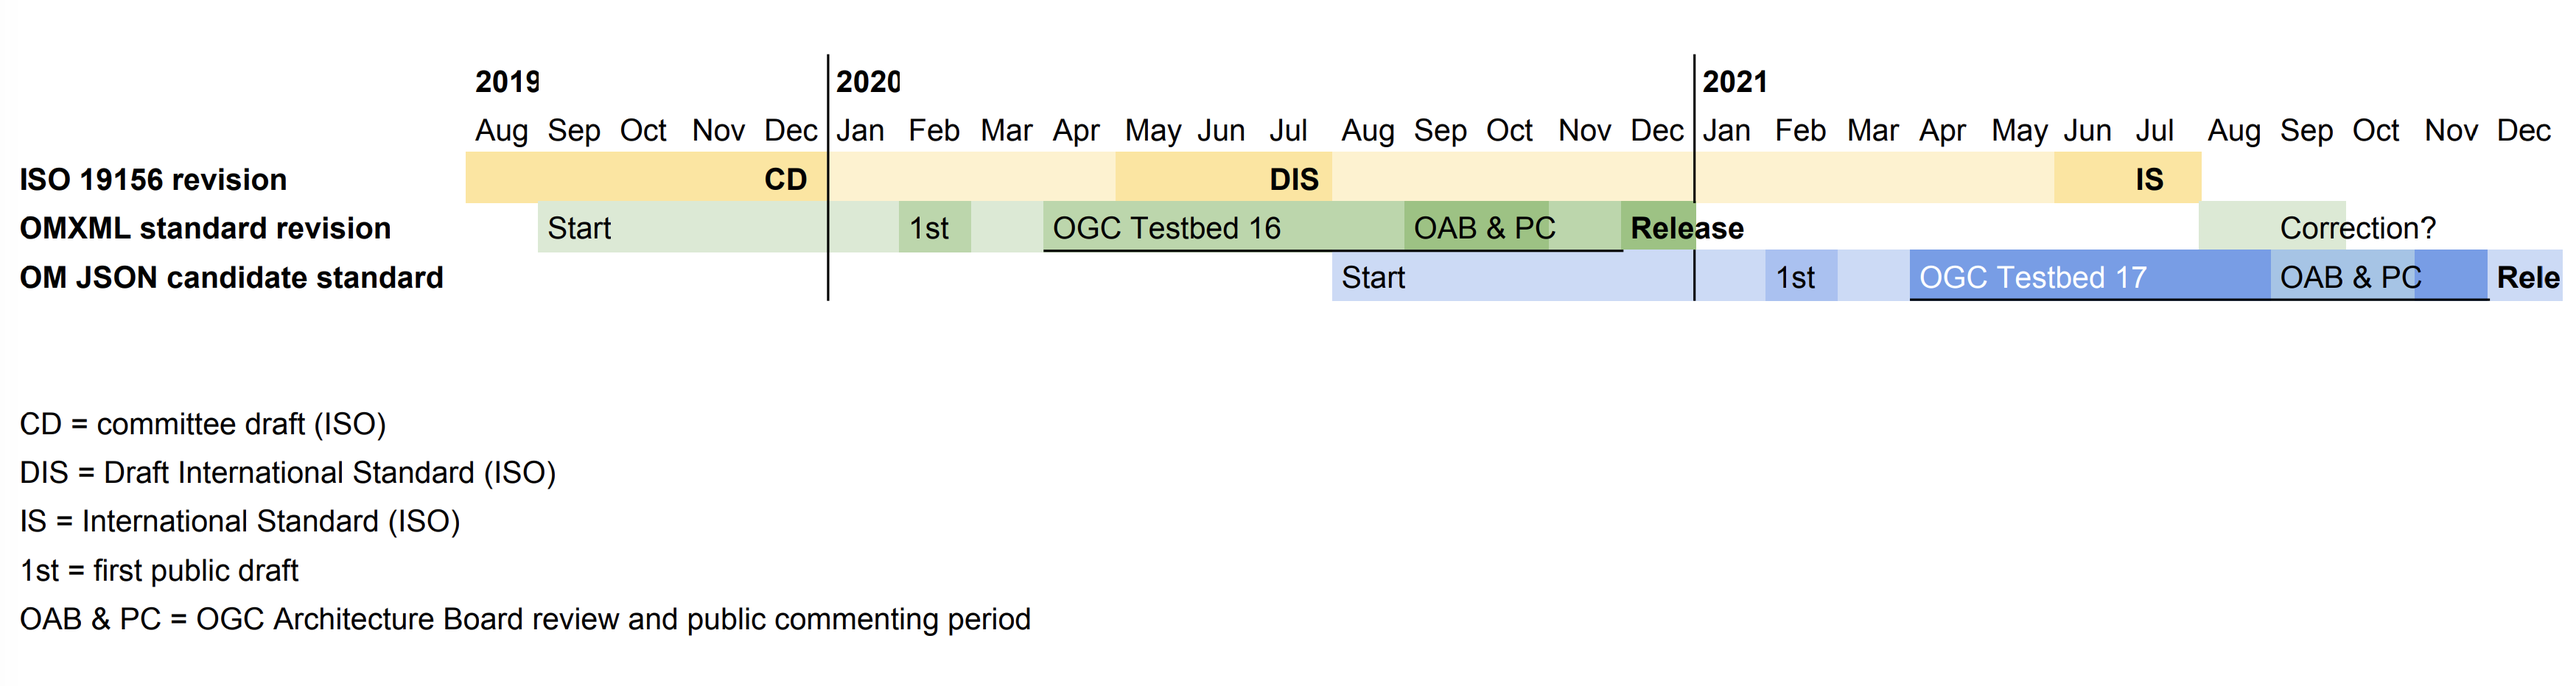
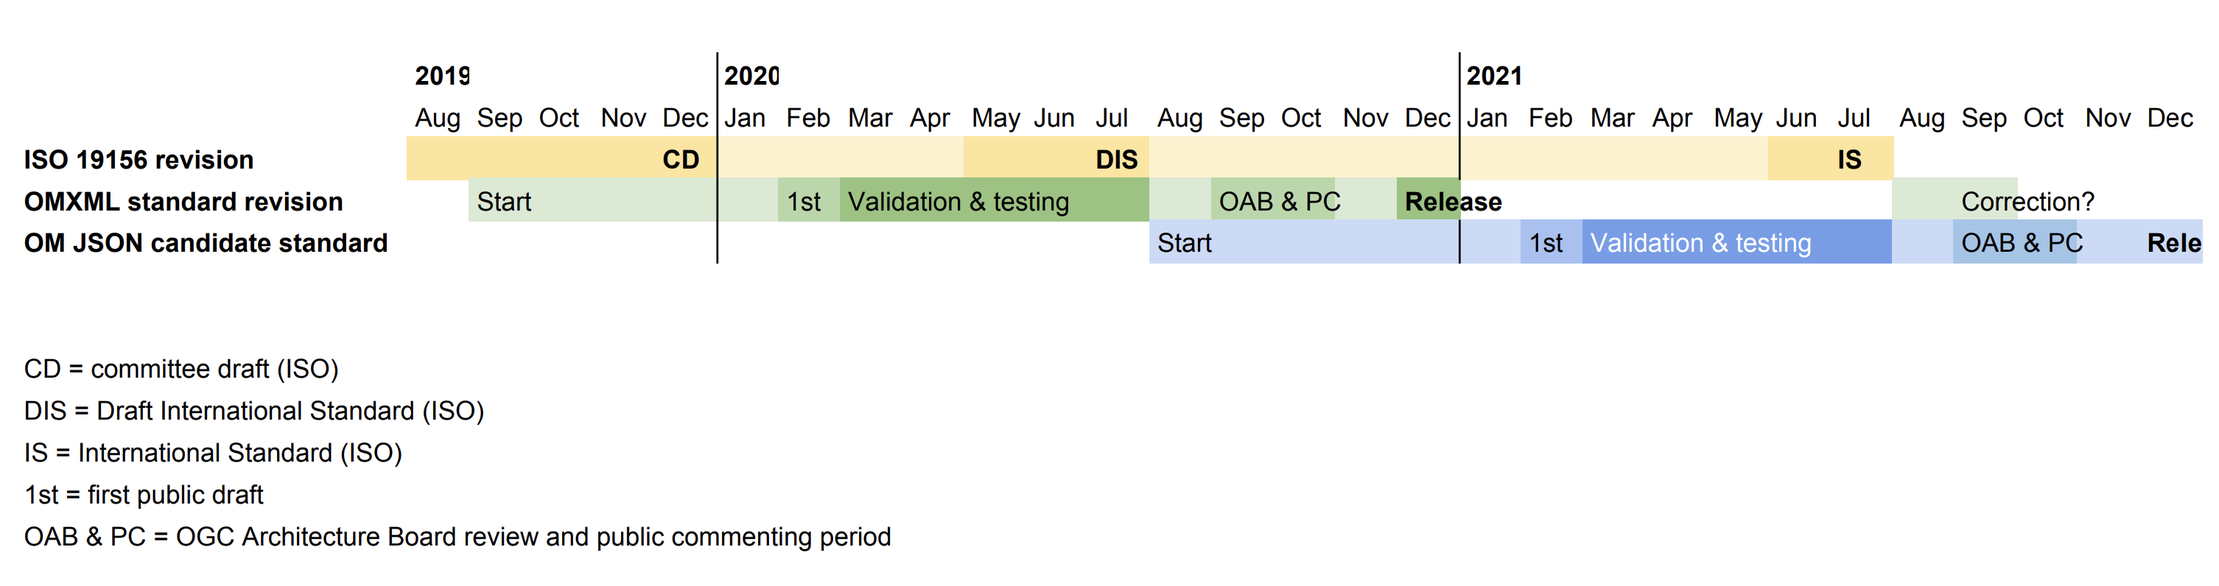
Changes agreed in the O&M SWG meeting on 14 August, apart from the references to ELFIE and SELFIE

diff --git a/docs/charter/index.html b/docs/charter/index.html
@@ -2368,7 +2368,10 @@ member of OGC;</p>
 <h2 id="_purpose_of_the_standards_working_group"><a class="anchor" href="#_purpose_of_the_standards_working_group"></a>1. Purpose of the Standards Working Group</h2>
 <div class="sectionbody">
 <div class="paragraph">
-<p>The revision work of OGC Abstract Specification Topic 20, also published as ISO Observations and measurements Standard (ISO 19156:2011, O&amp;M), has been agreed to by both OGC and ISO. The revision was approved by ISO/TC 211 in July 2018. This work will be jointly carried out within ISO/TC 211 and the O&amp;M SWG to ensure that:</p>
+<p>The revision work of OGC Abstract Specification Topic 20, also published as ISO Observations and measurements
+Standard (ISO 19156:2011, O&amp;M), has been agreed to by both OGC and ISO.
+The revision was approved by ISO/TC 211 in July 2018.
+This work will be carried out within ISO/TC 211 with support from the O&amp;M SWG to ensure that:</p>
 </div>
 <div class="ulist">
 <ul>
@@ -2384,8 +2387,8 @@ member of OGC;</p>
 </ul>
 </div>
 <div class="paragraph">
-<p>In addition to joint work with ISO, the purpose of the OGC Observations and measurements SWG is to revise existing and draft new
-OGC Standards considering the encoding of the O&amp;M conceptual models.</p>
+<p>In addition to supporting the ISO 19156 revision work of ISO/TC 211, the purpose of the OGC Observations and measurements
+SWG is to revise existing and draft new OGC Standards considering the encoding of the O&amp;M conceptual models.</p>
 </div>
 <div class="paragraph">
 <p>This Standards Working Group evaluates and resolves submitted Change Request Proposals (CRPs)
@@ -2532,14 +2535,14 @@ the existing OGC Standards normatively referring to the OGC Abstract Specificati
 apart OGC Observations and Measurements - XML Implementation (10-025r1), is out-of-scope of the O&amp;M SWG.</p>
 </div>
 <div class="paragraph">
-<p>The O&amp;M SWG will not consider Change Request Proposals submitted for the the Abstract Specification Topic 20 (10-004r3)
+<p>The O&amp;M SWG may not consider Change Request Proposals submitted for the the Abstract Specification Topic 20 (10-004r3)
 or OGC Observations and Measurements - XML Implementation (10-025r1) after the cut-off date of 30 September 2019.</p>
 </div>
 </div>
 <div class="sect2">
 <h3 id="_specific_existing_work_used_as_starting_point"><a class="anchor" href="#_specific_existing_work_used_as_starting_point"></a>3.3. Specific Existing Work Used as Starting Point</h3>
 <div class="paragraph">
-<p>The following documents are relevant to the work of the O&amp;M SWG (see References for precise reference information):</p>
+<p>The following documents are relevant to the work of the O&amp;M SWG (see <a href="#_references">References</a> for precise reference information):</p>
 </div>
 <div class="ulist">
 <ul>
@@ -2554,6 +2557,9 @@ or OGC Observations and Measurements - XML Implementation (10-025r1) after the c
 </li>
 <li>
 <p>SensorThings API Part 1: Sensing (15-078r6),</p>
+</li>
+<li>
+<p>Timeseries Profile of Observations and Measurements (15-043r3)</p>
 </li>
 <li>
 <p>W3C Semantic Sensor Network Ontology specification (SSN),</p>
@@ -2621,7 +2627,7 @@ or OGC Observations and Measurements - XML Implementation (10-025r1) after the c
 </ul>
 </div>
 <div class="paragraph">
-<p>Thus it is likely that the final version of the OGC Abstract Specification Topic 20 will be ready for publishing in Summer 2021.</p>
+<p>It is expected that the final version of the OGC Abstract Specification Topic 20 will be ready for publishing in summer 2021.</p>
 </div>
 </div>
 <div class="sect3">
@@ -2638,7 +2644,7 @@ or OGC Observations and Measurements - XML Implementation (10-025r1) after the c
 <p>February 2019: First draft version made publicly available;</p>
 </li>
 <li>
-<p>April - November 2020: Validating the feasibility of the proposed changes in an OGC Innovation Program activity;</p>
+<p>April - July 2020: Validating the feasibility of the proposed changes in an OGC Innovation Program activity;</p>
 </li>
 <li>
 <p>September 2020: OAB review and release of the revised standard for the public comment period;</p>
@@ -2672,7 +2678,7 @@ or OGC Observations and Measurements - XML Implementation (10-025r1) after the c
 <p>February 2021: First draft version made publicly available;</p>
 </li>
 <li>
-<p>April - November 2021: Validating the feasibility of the proposed encoding(s) in an OGC Innovation Program activity;</p>
+<p>April - July 2021: Validating the feasibility of the proposed encoding(s) in an OGC Innovation Program activity;</p>
 </li>
 <li>
 <p>September 2021: OAB Review and release of the standard for the public comment period;</p>
@@ -2744,7 +2750,7 @@ O&amp;M SWG project folder of the OGC Portal and made publicly available.</p>
 <div class="sect2">
 <h3 id="_similar_or_applicable_standards_work_ogc_and_elsewhere"><a class="anchor" href="#_similar_or_applicable_standards_work_ogc_and_elsewhere"></a>7.2. Similar or Applicable Standards Work (OGC and Elsewhere)</h3>
 <div class="paragraph">
-<p>TBA</p>
+<p>See <a href="#_specific_existing_work_used_as_starting_point">Chapter 3.3</a></p>
 </div>
 </div>
 <div class="sect2">
@@ -2883,7 +2889,7 @@ this charter. The charter members have voting rights beginning the day the SWG i
 </div>
 <div id="footer">
 <div id="footer-text">
-Last updated 2019-08-14 06:29:14 UTC
+Last updated 2019-08-14 12:29:38 UTC
 </div>
 </div>
 </body>
